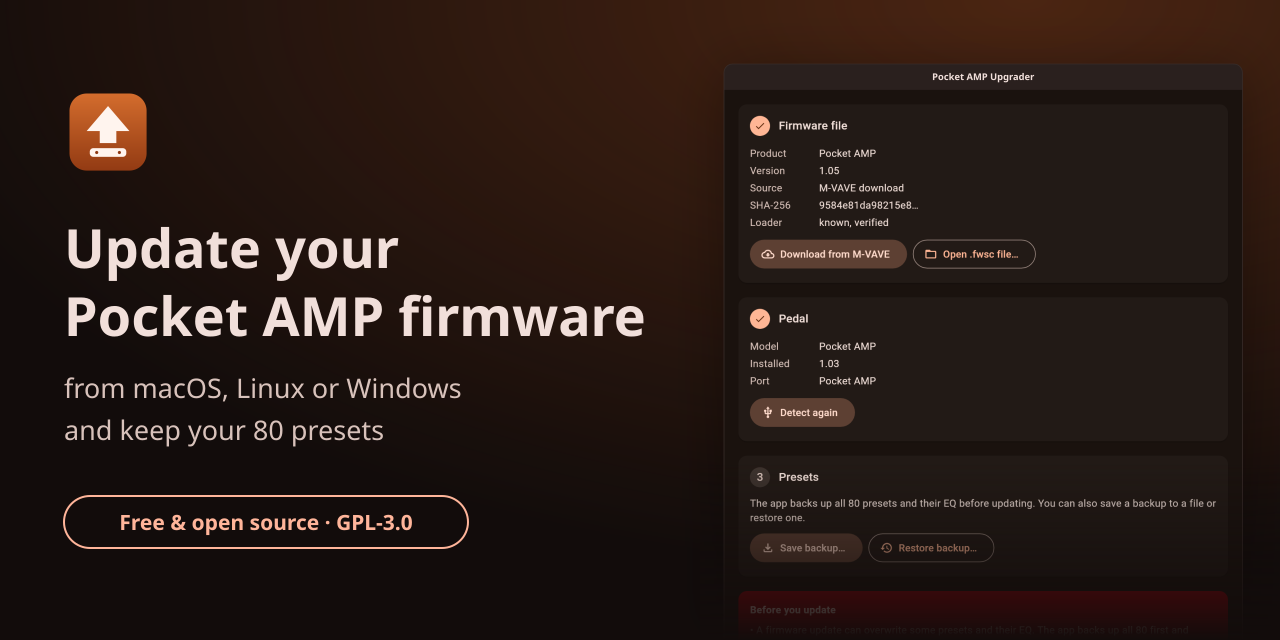
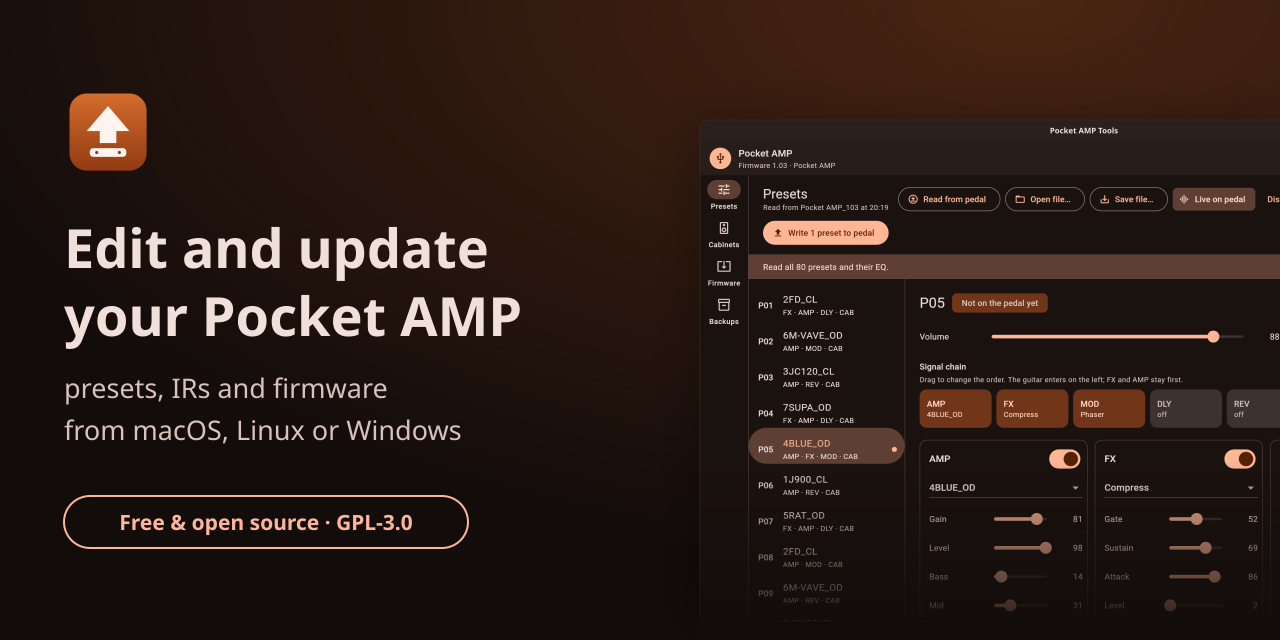
refactor!: rename the app to Pocket AMP Tools
It edits presets, IRs and backups now, not only firmware. The README
and the website describe the editor; pubspec gains bluez for Bluetooth.
Backup files keep their format name, data folders keep their app ids,
and backups in Documents/Pocket AMP Upgrader are still listed.

BREAKING CHANGE: the binary, release files and AppImage are now named
pocket-amp-tools; new backups go to Documents/Pocket AMP Tools.

diff --git a/docs/index.html b/docs/index.html
@@ -3,14 +3,14 @@
 <head>
 <meta charset="utf-8">
 <meta name="viewport" content="width=device-width, initial-scale=1">
-<title>M-VAVE Pocket AMP firmware update for Mac, Linux and Windows · Pocket AMP Upgrader</title>
+<title>M-VAVE Pocket AMP firmware update for Mac, Linux and Windows · Pocket AMP Tools</title>
 <meta name="description" content="Free, open source app that updates the M-VAVE Pocket AMP guitar pedal to firmware V1.05 over USB from macOS, Linux or Windows. Backs up and restores your 80 presets. Also works with Pocket AMP clones such as the Coolmusic PIXIE1 and New Bee SK17.">
-<link rel="canonical" href="https://vitoramaral10.github.io/pocket-amp-upgrader/">
+<link rel="canonical" href="https://vitoramaral10.github.io/pocket-amp-tools/">
 <meta property="og:type" content="website">
 <meta property="og:title" content="Update the M-VAVE Pocket AMP firmware from Mac, Linux or Windows">
 <meta property="og:description" content="Free, open source updater for the Pocket AMP. Installs the official V1.05 firmware over USB and keeps your presets.">
-<meta property="og:url" content="https://vitoramaral10.github.io/pocket-amp-upgrader/">
-<meta property="og:image" content="https://vitoramaral10.github.io/pocket-amp-upgrader/social-preview.png">
+<meta property="og:url" content="https://vitoramaral10.github.io/pocket-amp-tools/">
+<meta property="og:image" content="https://vitoramaral10.github.io/pocket-amp-tools/social-preview.png">
 <meta name="twitter:card" content="summary_large_image">
 <meta name="color-scheme" content="light dark">
 <link rel="icon" type="image/png" href="icon.png">
@@ -21,21 +21,21 @@
   "@graph": [
     {
       "@type": "SoftwareApplication",
-      "name": "Pocket AMP Upgrader",
+      "name": "Pocket AMP Tools",
       "description": "Updates the firmware of the M-VAVE Pocket AMP guitar pedal and its clones over USB-MIDI, with automatic preset backup and restore.",
       "applicationCategory": "UtilitiesApplication",
       "operatingSystem": "Windows 10, Windows 11, macOS 11+, Linux",
       "license": "https://www.gnu.org/licenses/gpl-3.0.html",
       "offers": { "@type": "Offer", "price": "0", "priceCurrency": "USD" },
-      "downloadUrl": "https://github.com/vitoramaral10/pocket-amp-upgrader/releases",
-      "codeRepository": "https://github.com/vitoramaral10/pocket-amp-upgrader",
-      "screenshot": "https://vitoramaral10.github.io/pocket-amp-upgrader/screenshot-light.png"
+      "downloadUrl": "https://github.com/vitoramaral10/pocket-amp-tools/releases",
+      "codeRepository": "https://github.com/vitoramaral10/pocket-amp-tools",
+      "screenshot": "https://vitoramaral10.github.io/pocket-amp-tools/screenshot-light.png"
     },
     {
       "@type": "FAQPage",
       "mainEntity": [
         { "@type": "Question", "name": "How do I update the Pocket AMP firmware on a Mac?",
-          "acceptedAnswer": { "@type": "Answer", "text": "M-VAVE's updater runs only on Windows. Pocket AMP Upgrader runs on macOS 11 or newer: connect the pedal with a USB data cable, open the app, click Download from M-VAVE, then Update firmware. It takes about two minutes." } },
+          "acceptedAnswer": { "@type": "Answer", "text": "M-VAVE's updater runs only on Windows. Pocket AMP Tools runs on macOS 11 or newer: connect the pedal with a USB data cable, open the app, click Download from M-VAVE, then Update firmware. It takes about two minutes." } },
         { "@type": "Question", "name": "Will the update erase my presets?",
           "acceptedAnswer": { "@type": "Answer", "text": "A firmware update can overwrite some presets and their EQ. The app backs up all 80 presets and their EQ before updating and restores only what changed afterwards." } },
         { "@type": "Question", "name": "Do I need a driver?",
@@ -130,16 +130,16 @@ code { font-size: .92em; background: var(--surface); padding: 1px 5px; border-ra
       <div>
         <p class="eyebrow">M-VAVE Pocket AMP and clones · free and open source</p>
         <h1>Update your Pocket AMP firmware from Mac, Linux or Windows</h1>
-        <p class="lead prose">Pocket AMP Upgrader installs M-VAVE's official firmware (currently V1.05) over plain USB, without drivers. It backs up all 80 presets first and puts back the ones the update changed.</p>
+        <p class="lead prose">Pocket AMP Tools installs M-VAVE's official firmware (currently V1.05) over plain USB, without drivers. It backs up all 80 presets first and puts back the ones the update changed.</p>
         <div class="actions">
-          <a class="btn btn-primary" href="https://github.com/vitoramaral10/pocket-amp-upgrader/releases">Download</a>
-          <a class="btn btn-secondary" href="https://github.com/vitoramaral10/pocket-amp-upgrader">Source on GitHub</a>
+          <a class="btn btn-primary" href="https://github.com/vitoramaral10/pocket-amp-tools/releases">Download</a>
+          <a class="btn btn-secondary" href="https://github.com/vitoramaral10/pocket-amp-tools">Source on GitHub</a>
         </div>
         <p class="note">Windows 10/11 · macOS 11+ · Linux x64 (AppImage). Community tool, not affiliated with M-VAVE.</p>
       </div>
       <picture>
         <source srcset="screenshot-dark.png" media="(prefers-color-scheme: dark)">
-        <img class="shot" src="screenshot-light.png" width="1632" height="2404" alt="Pocket AMP Upgrader window: a Pocket AMP on V1.03 detected, the official V1.05 package verified, and the Update firmware button ready">
+        <img class="shot" src="screenshot-light.png" width="2752" height="1864" alt="Pocket AMP Tools window: the preset editor with the 80 presets, the signal chain, and each block's model and knobs, played live on the pedal">
       </picture>
     </div>
   </header>
@@ -149,7 +149,7 @@ code { font-size: .92em; background: var(--surface); padding: 1px 5px; border-ra
     <ol class="prose">
       <li>Charge the pedal, connect it with a USB <strong>data</strong> cable and turn it on.</li>
       <li>Close the M-VAVE app and anything else that uses MIDI.</li>
-      <li>Open Pocket AMP Upgrader. It detects the pedal and shows the installed version.</li>
+      <li>Open Pocket AMP Tools. It detects the pedal and shows the installed version.</li>
       <li>Click <strong>Download from M-VAVE</strong>, or open a <code>.fwsc</code> file you already have.</li>
       <li>Click <strong>Update firmware</strong> and wait about two minutes. The pedal restarts twice.</li>
       <li>Click <strong>Restore my presets from before the update</strong>.</li>
@@ -160,7 +160,7 @@ code { font-size: .92em; background: var(--surface); padding: 1px 5px; border-ra
   <section class="wrap">
     <h2>Why use it</h2>
     <table class="prose">
-      <thead><tr><th scope="col"></th><th scope="col">M-VAVE updater</th><th scope="col">Pocket AMP Upgrader</th></tr></thead>
+      <thead><tr><th scope="col"></th><th scope="col">M-VAVE updater</th><th scope="col">Pocket AMP Tools</th></tr></thead>
       <tbody>
         <tr><th scope="row">Systems</th><td>Windows only</td><td>Windows, macOS, Linux</td></tr>
         <tr><th scope="row">Firmware</th><td>Bundled file, older than the downloads page at the time of writing</td><td>Current official file from M-VAVE's server</td></tr>
@@ -178,7 +178,7 @@ code { font-size: .92em; background: var(--surface); padding: 1px 5px; border-ra
       <details><summary>Do I need a driver?</summary>
         <p>No. The pedal is a standard USB-MIDI device. Use a data cable: many USB cables only charge.</p></details>
       <details><summary>Does it work with Pocket AMP clones like the Coolmusic PIXIE1 or New Bee SK17?</summary>
-        <p>Yes, for clones confirmed to be a Pocket AMP. The Coolmusic PIXIE1 and the New Bee SK17 are: owners updated them to V1.05. The app asks for a separate confirmation, the pedal then reports itself as a Pocket AMP, and presets from older clone firmware are not restored: the app keeps a raw copy and asks before continuing. Other pedals are refused, because a different pedal that speaks the same protocol would be bricked. Have a clone that is not listed? <a href="https://github.com/vitoramaral10/pocket-amp-upgrader/issues/new/choose">Report it on GitHub</a>.</p></details>
+        <p>Yes, for clones confirmed to be a Pocket AMP. The Coolmusic PIXIE1 and the New Bee SK17 are: owners updated them to V1.05. The app asks for a separate confirmation, the pedal then reports itself as a Pocket AMP, and presets from older clone firmware are not restored: the app keeps a raw copy and asks before continuing. Other pedals are refused, because a different pedal that speaks the same protocol would be bricked. Have a clone that is not listed? <a href="https://github.com/vitoramaral10/pocket-amp-tools/issues/new/choose">Report it on GitHub</a>.</p></details>
       <details><summary>What if the update stops halfway?</summary>
         <p>Don't unplug in a hurry. Reconnect the pedal and click <strong>Detect pedal</strong>. A pedal left in update mode is shown as such, and <strong>Resume update</strong> writes the firmware again.</p></details>
       <details><summary>Is this an official M-VAVE app?</summary>
@@ -187,7 +187,7 @@ code { font-size: .92em; background: var(--surface); padding: 1px 5px; border-ra
   </section>
 </main>
 <footer class="wrap">
-  <p class="prose">Pocket AMP Upgrader is open source (GPL-3.0). Found a problem or tested it on your pedal? <a href="https://github.com/vitoramaral10/pocket-amp-upgrader/issues/new/choose">Tell us on GitHub</a>. <a href="https://github.com/vitoramaral10/pocket-amp-upgrader#thanks">Thanks</a> to the owners who tested it on their clones. M-VAVE, Pocket AMP, PIXIE1 and New Bee SK17 are trademarks of their owners.</p>
+  <p class="prose">Pocket AMP Tools is open source (GPL-3.0). Found a problem or tested it on your pedal? <a href="https://github.com/vitoramaral10/pocket-amp-tools/issues/new/choose">Tell us on GitHub</a>. <a href="https://github.com/vitoramaral10/pocket-amp-tools#thanks">Thanks</a> to the owners who tested it on their clones. M-VAVE, Pocket AMP, PIXIE1 and New Bee SK17 are trademarks of their owners.</p>
 </footer>
 </body>
 </html>

diff --git a/linux/runner/my_application.cc b/linux/runner/my_application.cc
@@ -80,11 +80,11 @@ static void my_application_activate(GApplication* application) {
   if (use_header_bar) {
     GtkHeaderBar* header_bar = GTK_HEADER_BAR(gtk_header_bar_new());
     gtk_widget_show(GTK_WIDGET(header_bar));
-    gtk_header_bar_set_title(header_bar, "Pocket AMP Upgrader");
+    gtk_header_bar_set_title(header_bar, "Pocket AMP Tools");
     gtk_header_bar_set_show_close_button(header_bar, TRUE);
     gtk_window_set_titlebar(window, GTK_WIDGET(header_bar));
   } else {
-    gtk_window_set_title(window, "Pocket AMP Upgrader");
+    gtk_window_set_title(window, "Pocket AMP Tools");
   }
 
   gtk_window_set_default_size(window, 720, 760);

diff --git a/windows/runner/main.cpp b/windows/runner/main.cpp
@@ -27,7 +27,7 @@ int APIENTRY wWinMain(_In_ HINSTANCE instance, _In_opt_ HINSTANCE prev,
   FlutterWindow window(project);
   Win32Window::Point origin(10, 10);
   Win32Window::Size size(720, 760);
-  if (!window.Create(L"Pocket AMP Upgrader", origin, size)) {
+  if (!window.Create(L"Pocket AMP Tools", origin, size)) {
     return EXIT_FAILURE;
   }
   window.SetQuitOnClose(true);

diff --git a/README.md b/README.md
@@ -1,21 +1,24 @@
-# Pocket AMP Upgrader
+# Pocket AMP Tools
 
-[![build](https://github.com/vitoramaral10/pocket-amp-upgrader/actions/workflows/build.yml/badge.svg)](https://github.com/vitoramaral10/pocket-amp-upgrader/actions/workflows/build.yml)
-[![release](https://img.shields.io/github/v/release/vitoramaral10/pocket-amp-upgrader?include_prereleases&sort=semver)](https://github.com/vitoramaral10/pocket-amp-upgrader/releases)
-[![downloads](https://img.shields.io/github/downloads/vitoramaral10/pocket-amp-upgrader/total)](https://github.com/vitoramaral10/pocket-amp-upgrader/releases)
-[![license](https://img.shields.io/github/license/vitoramaral10/pocket-amp-upgrader)](LICENSE)
+[![build](https://github.com/vitoramaral10/pocket-amp-tools/actions/workflows/build.yml/badge.svg)](https://github.com/vitoramaral10/pocket-amp-tools/actions/workflows/build.yml)
+[![release](https://img.shields.io/github/v/release/vitoramaral10/pocket-amp-tools?include_prereleases&sort=semver)](https://github.com/vitoramaral10/pocket-amp-tools/releases)
+[![downloads](https://img.shields.io/github/downloads/vitoramaral10/pocket-amp-tools/total)](https://github.com/vitoramaral10/pocket-amp-tools/releases)
+[![license](https://img.shields.io/github/license/vitoramaral10/pocket-amp-tools)](LICENSE)
 ![platforms](https://img.shields.io/badge/platforms-Windows%20%7C%20macOS%20%7C%20Linux-informational)
 
-Update the firmware of the **M-VAVE Pocket AMP** guitar pedal (V1.05) over USB from **macOS, Linux or Windows**, with the official firmware file from M-VAVE. The goal is every Pocket AMP, whatever brand is printed on it: clones sold under other names, such as the Coolmusic PIXIE1, are supported too. Website: <https://vitoramaral10.github.io/pocket-amp-upgrader/>
+Update the firmware of the **M-VAVE Pocket AMP** guitar pedal (V1.05) over USB from **macOS, Linux or Windows**, with the official firmware file from M-VAVE. The goal is every Pocket AMP, whatever brand is printed on it: clones sold under other names, such as the Coolmusic PIXIE1, are supported too. Website: <https://vitoramaral10.github.io/pocket-amp-tools/>
 
 M-VAVE's own updater runs only on Windows and, at the time of writing, its "POCKET AMP" bundle ships an older firmware than the one on the downloads page. This app sends the current `.fwsc` file from M-VAVE over plain USB-MIDI, so it needs no drivers.
 
 <picture>
   <source srcset="docs/screenshot-dark.png" media="(prefers-color-scheme: dark)">
-  <img src="docs/screenshot-light.png" width="480" alt="Pocket AMP Upgrader with a Pocket AMP on V1.03 detected and the official V1.05 package ready to install">
+  <img src="docs/screenshot-light.png" width="720" alt="Pocket AMP Tools: the preset editor with the 80 presets, the signal chain, and each block's model and knobs, played live on the pedal">
 </picture>
 
 > **Community tool, not affiliated with M-VAVE. Use at your own risk.** A firmware update that is interrupted can leave the pedal unusable.
+
+
+> Formerly **Pocket AMP Upgrader**: it grew from a firmware updater into a preset editor, and was renamed.
 
 ## Download
 
@@ -23,16 +26,16 @@ Get the build for your system from the newest entry on the [releases page](../..
 
 | System | File | How to run |
 | --- | --- | --- |
-| Windows 10/11 (x64) | `pocket-amp-upgrader-windows-x64.zip` | Unzip, run `pocket-amp-upgrader.exe`. If SmartScreen warns, choose *More info → Run anyway*. |
-| macOS 11+ | `pocket-amp-upgrader-macos.zip` | Unzip, then right-click *Pocket AMP Upgrader* → *Open* (the app is not signed). |
-| Linux (x64) | `Pocket_AMP_Upgrader-x86_64.AppImage` | `chmod +x` it and run it. Or use `pocket-amp-upgrader-linux-x64.tar.gz`. Needs GTK 3 and ALSA (`libasound2`). |
+| Windows 10/11 (x64) | `pocket-amp-tools-windows-x64.zip` | Unzip, run `pocket-amp-tools.exe`. If SmartScreen warns, choose *More info → Run anyway*. |
+| macOS 11+ | `pocket-amp-tools-macos.zip` | Unzip, then right-click *Pocket AMP Tools* → *Open* (the app is not signed). |
+| Linux (x64) | `Pocket_AMP_Tools-x86_64.AppImage` | `chmod +x` it and run it. Or use `pocket-amp-tools-linux-x64.tar.gz`. Needs GTK 3 and ALSA (`libasound2`). |
 
 ## How to update
 
 1. Know that a firmware update can overwrite some presets and their EQ. The app backs up all 80 presets and their EQ automatically before updating, and you can also save a backup to a file at any time.
 2. Charge the pedal, connect it with a USB **data** cable and turn it on.
 3. Close the M-VAVE app and anything else that uses MIDI (DAWs, browser tabs with Web MIDI).
-4. Open Pocket AMP Upgrader. It detects the pedal and shows the installed version.
+4. Open Pocket AMP Tools. It detects the pedal and shows the installed version.
 5. Click **Download from M-VAVE** (fetches the official file from M-VAVE's server) or **Open .fwsc file…** if you already have it.
 6. Click **Update firmware**, confirm, and wait about two minutes. The pedal restarts twice: once into update mode, once into the new firmware.
 7. Click **Restore my presets from before the update**. Only the presets and EQ that changed are written back, and the result is read back to check it.
@@ -53,7 +56,7 @@ Have a clone that is not listed? Open the app, copy the log from **Details**, an
 Know before you cross-flash a clone:
 
 - afterwards the pedal reports itself as a Pocket AMP, and there may be no firmware of the original brand to go back to;
-- older clone firmware (PIXIE1 V0.07, for example) has no preset EQ table, so its presets **are not restored**. The app keeps a raw copy (`raw-<pedal>-<date>.bin` in `Documents/Pocket AMP Upgrader`) and asks before continuing;
+- older clone firmware (PIXIE1 V0.07, for example) has no preset EQ table, so its presets **are not restored**. The app keeps a raw copy (`raw-<pedal>-<date>.bin` in `Documents/Pocket AMP Tools`) and asks before continuing;
 - after updating from V0.07, M-VAVE says to switch to Speaker mode and load the Speaker mode preset in M-EFCS to get sound.
 
 ### "Already runs this version"
@@ -64,11 +67,23 @@ The Pocket AMP does not reinstall the firmware it already has: it reads the pack
 
 Do not unplug the pedal in a hurry. If the app says the pedal did not come back, reconnect it, open the app again and click **Detect pedal**. A pedal waiting in update mode shows up as *update mode*, and **Resume update** writes the firmware again from there.
 
-## Preset backups
+## Presets
 
-The **Presets** card saves all 80 presets and their EQ to a `.json` file and restores one. A restore writes only what differs from the pedal and then reads everything back to confirm. The backup taken automatically before each update is also kept in `Documents/Pocket AMP Upgrader`.
+The **Presets** section reads all 80 presets and their EQ from the pedal and lets you edit them: volume, the order of the signal chain, each block's on/off, model and knobs, and the EQ. AMP and CAB model names are read from the pedal, so models you uploaded show with their own names.
 
-The file can be read and compared in a text editor or with `git diff`. Next to the raw data it lists every preset as plain fields:
+The chain keeps FX and AMP in its first two places (in either order); the other four blocks go in any order. A V1.05 pedal acknowledges and ignores any other order, so the editor does not offer it.
+
+With **Live on pedal** (on by default), selecting a preset plays it on the pedal, and each change to a block, model, knob or the chain is heard as you make it. Live changes are not stored: switching presets on the pedal or turning it off brings back what is saved. Volume and EQ have no live command and are heard after writing. Changing a model resets that block's knobs to the new model's defaults, as on the pedal itself.
+
+**Write to pedal** stores only the presets that changed, then reads everything back to confirm. If the pedal changed since its presets were read (a preset saved on the pedal, or another unit plugged in), nothing is written and the app asks for a new read. Every write is read back before it is stored, and is stored even when nothing differed, so a write whose storing step was lost is completed by the next one. Reading again, opening a file or closing the app with edits not on the pedal asks first. A preset can be copied as JSON and pasted back.
+
+**Ask the assistant** (the ✨ button on a preset) sends your request and the preset to an AI service you choose: any address that speaks the OpenAI chat-completions format, with your own model and key (kept on your computer, in plain text). The answer goes into the editor, is checked like a backup file, and is heard live; nothing is stored until you write.
+
+The **Cabinets** section lists the 20 CAB slots and puts your own IR in one: WAV, 44.1 kHz, mono, 24-bit, 2048 samples (the one format whose upload was measured). This writes to the pedal's flash, and the IR that was in the slot is gone for good: the app cannot read IRs back. That an uploaded IR survives turning the pedal off is not yet confirmed.
+
+The **Backups** section lists the backups the app keeps in `Documents/Pocket AMP Tools` (one is taken automatically before each firmware update), and opens or restores any of them. Backups made when the app was called Pocket AMP Upgrader stay in `Documents/Pocket AMP Upgrader` and are listed too.
+
+A backup file lists every preset as plain fields, and the app restores from those fields, so a file edited by hand or by another tool goes back to the pedal:
 
 ```json
 {
@@ -76,22 +91,48 @@ The file can be read and compared in a text editor or with `git diff`. Next to t
   "volume": 60,
   "chain": ["FX", "AMP", "MOD", "DLY", "REV", "CAB"],
   "blocks": {
-    "AMP": { "on": true, "model": 7, "knobs": [50, 60, 45, 55, 50, 0] }
+    "AMP": {
+      "on": true,
+      "model": "8DARKS_DS",
+      "knobs": { "Gain": 50, "Level": 60, "Bass": 45, "Mid": 55, "Treble": 50, "knob6": 0 }
+    }
   },
   "eq": { "on": true, "position": "tail", "bands": [2, 0, -1, 0, 3] }
 }
 ```
 
-Every preset lists all six blocks; the example shows one. Models and knobs are numbers for now: their names are not mapped yet. The block names follow the order on the pedal's screen and are not confirmed for every position. The restore reads only the raw data (`presets` and `eq`), so editing the `readable` part changes nothing.
+Some presets keep an EQ in a form the pedal stores but Save EQ does not take (position `0x80`, seen on factory presets); the editor shows it as is and offers to reset it to off and flat instead of editing it.
+
+Every preset lists all six blocks; the example shows one. Knobs go from 0 to 100 and EQ bands from -6 to 6. `knobN` is a stored value the model does not use; it is kept so nothing is lost. Changing a model needs that model's knob names, and a file the pedal cannot take is refused before anything is written, naming the preset and field. Model and knob names follow firmware V1.05 (list collected in [#11](../../issues/11)); the block order and model numbers are not yet confirmed on a pedal for every position. Backups saved by earlier versions (`presets@1`) still restore. A file records which model list named it (`"models"`); a file named with another list is refused rather than restored as different bytes.
+
+### Bluetooth (Linux)
+
+On Linux the app also finds the pedal over Bluetooth, through M-VAVE's own GATT service and BlueZ. Over Bluetooth you can read, edit (live too) and write presets; firmware updates and IR uploads need the USB cable, and the firmware version is not shown. This was checked on a pedal for reads and live edits; writing presets over Bluetooth is read back and checked like over USB.
+
+The app never starts pairing, and only uses a pedal paired with this computer (a neighbour's pedal nearby is ignored). Pair it once in a terminal, then click **Detect again**:
+
+```sh
+bluetoothctl
+> scan on          # wait for "Pocket AMP_BLE", note its address
+> scan off
+> pair  <address>
+> trust <address>
+> quit
+```
 
 ## Safety checks
 
 Before anything is written, the app:
 
 - validates the whole `.fwsc` package (header, directory and CRC of every entry, chip `AC791N`);
-- only accepts packages for the Pocket AMP (also on a listed clone), and only the update loader (`ota.bin`) whose SHA-256 is known (`ef1f2db8…`, the one in the official V1.05 package);
+- only accepts packages made for the Pocket AMP itself (a clone vendor's own package is refused, even for a clone), and only the update loader (`ota.bin`) whose SHA-256 is known (`ef1f2db8…`, the one in the official V1.05 package);
+- knows the official package by its SHA-256 (V1.05: `9584e81d…`); any other package needs an extra confirmation, since only its update loader can be checked;
+- updates only the exact pedal that was confirmed, and with two pedals plugged in never takes the other one for the pedal coming back;
 - checks that the pedal on the USB port says it is a Pocket AMP (or a listed clone) before arming the transfer;
 - only asks the pedal for its identity when it opens; presets are read only when you start an update or save a backup, and nothing is written until you confirm.
+- checks every packet to the pedal against the exact shapes measured on a Pocket AMP before it is sent (reads of the preset area, live edits of the active preset, saving presets and EQ, the IR upload) and refuses anything else, so a bug cannot write somewhere new;
+- closes the live editing connection before any other operation, and never edits live during a firmware update;
+- sends nothing but preset traffic over Bluetooth: firmware updates and IR uploads are refused there.
 
 ## Status
 
@@ -118,7 +159,7 @@ If the app helped you, a ⭐ makes it easier for other Pocket AMP owners to find
 
 - **No pedal found.** Try another cable (many are charge-only) and another USB port. Make sure no other app has the MIDI port open. On Linux your user needs access to `/dev/snd/midi*` (usually the `audio` group or a desktop session).
 - **"Could not open MIDI output" on Windows.** Another app owns the port; Windows lets only one app open a MIDI device at a time.
-- **macOS says the app is damaged.** Run `xattr -dr com.apple.quarantine "Pocket AMP Upgrader.app"` once.
+- **macOS says the app is damaged.** Run `xattr -dr com.apple.quarantine "Pocket AMP Tools.app"` once.
 
 ## How it works
 

diff --git a/CONTRIBUTING.md b/CONTRIBUTING.md
@@ -1,6 +1,6 @@
 # Contributing
 
-Thanks for helping! Pocket AMP Upgrader is a small community tool, and the most useful contributions right now do not need any code.
+Thanks for helping! Pocket AMP Tools is a small community tool, and the most useful contributions right now do not need any code.
 
 ## The most helpful things you can do
 
